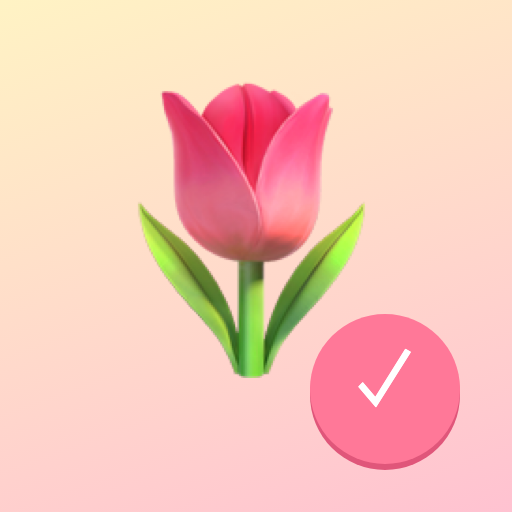
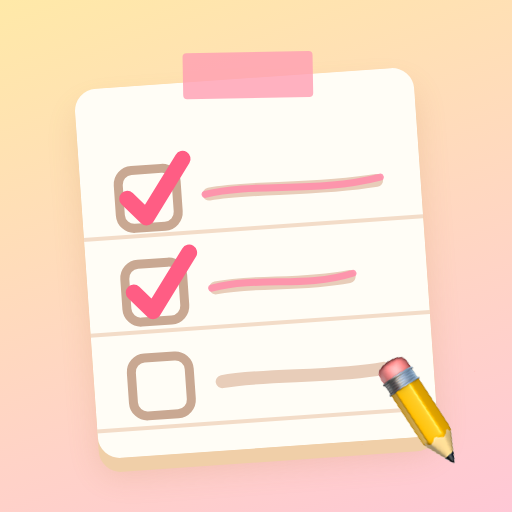
앱 아이콘을 체크리스트 메모지로

diff --git a/index.html b/index.html
@@ -5,8 +5,8 @@
 <meta name="viewport" content="width=device-width,initial-scale=1,viewport-fit=cover">
 <title>오늘 꼭! 할 일</title>
 <meta name="theme-color" content="#ffe8a3">
-<link rel="manifest" href="manifest.json">
-<link rel="apple-touch-icon" href="apple-touch-icon.png">
+<link rel="manifest" href="manifest.json?v=2">
+<link rel="apple-touch-icon" href="apple-touch-icon.png?v=2">
 <meta name="apple-mobile-web-app-capable" content="yes">
 <meta name="mobile-web-app-capable" content="yes">
 <meta name="apple-mobile-web-app-title" content="할 일">
